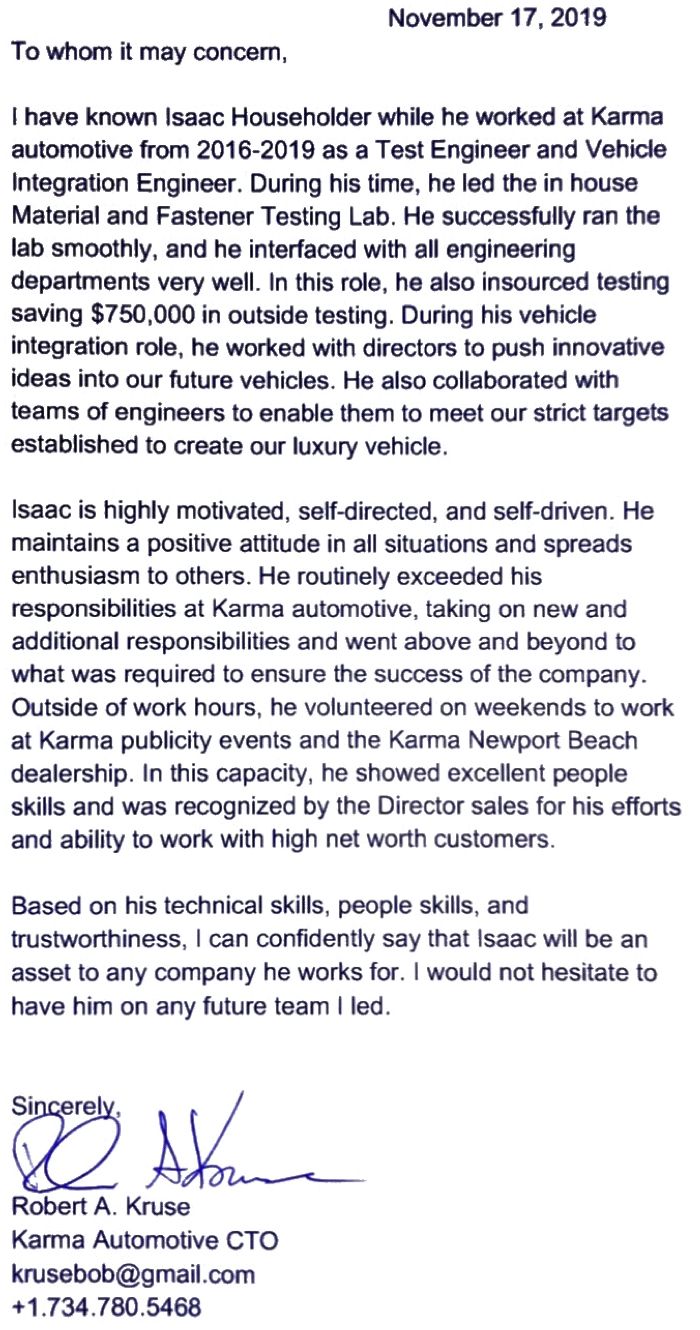
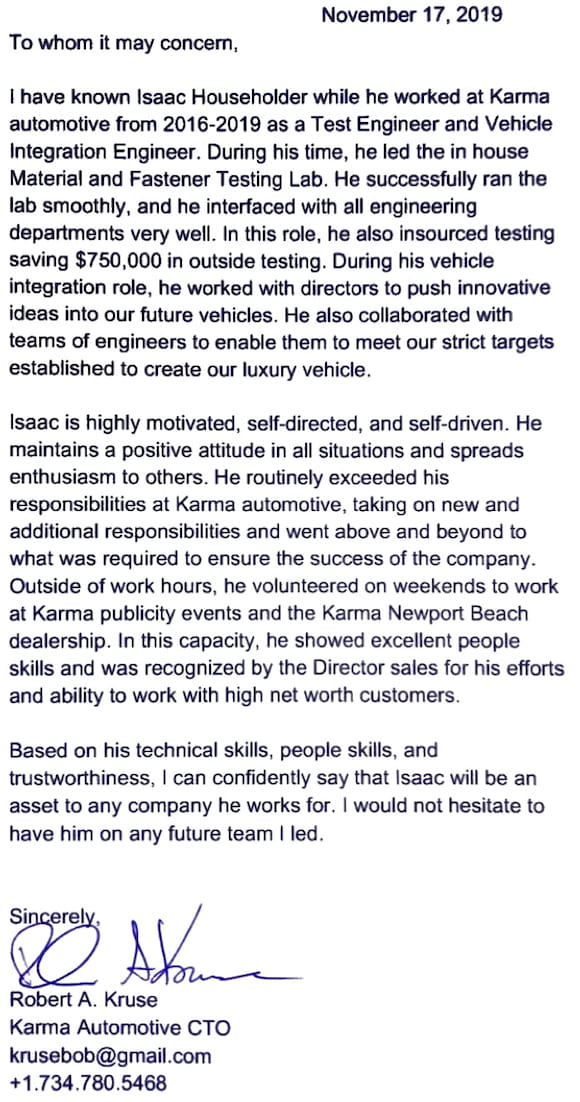
optimized images

diff --git a/src/pages/experience.jsx b/src/pages/experience.jsx
@@ -1,13 +1,22 @@
 import React from "react";
 import styled from "styled-components";
 
-import textBackground from "../assets/swirlBackground2.png";
 import { device } from "../utils/device";
 import colors from "../config/colors";
-import cht from "../assets/companyImages/cht.png";
-import karma from "../assets/companyImages/karma.png";
-import bourns from "../assets/companyImages/bourns.png";
-import dougans from "../assets/companyImages/dougans.png";
+
+import textBackground from "../assets/swirlBackground2.png";
+import chtSmall from "../assets/companyImages/cht_small.png";
+import chtMedium from "../assets/companyImages/cht_medium.png";
+import karmaSmall from "../assets/companyImages/karma_small.png";
+import karmaMedium from "../assets/companyImages/karma_medium.png";
+import bournsSmall from "../assets/companyImages/bourns_small.png";
+import bournsMedium from "../assets/companyImages/bourns_medium.png";
+import dougansSmall from "../assets/companyImages/dougans_small.png";
+import dougansMedium from "../assets/companyImages/dougans_medium.png";
+
+const ImageHeight = "300px";
+const srcSetMediumWidth = "580w";
+const srcSetSmallWidth = "30w";
 
 const Wrapper = styled.section`
   display: flex;
@@ -24,34 +33,23 @@ const JobContainer = styled.section`
   margin-top: 10px;
 `;
 
-const PhotoContainer = styled.section`
+const CompanyImage = styled.img`
   width: 100%;
-  max-height: 304px;
-  border-radius: 20px;
-  -webkit-border-radius: 20px;
-  -moz-border-radius: 20px;
-  -ms-border-radius: 20px;
-  -o-border-radius: 20px;
+`;
+
+const CompanyPhotoTextWrapper = styled.section`
+  max-height: ${ImageHeight};
+  width: 100%;
   overflow: hidden;
   position: relative;
   margin-top: 50px;
 `;
-
-const ChtImage = styled.img`
-  width: 100%;
-`;
-
-const KarmaImage = styled.img`
-  /* width: 900px; */
-  width: 100%;
-`;
-
-const BournsImage = styled.img`
-  width: 100%;
-`;
-
-const DougansImage = styled.img`
-  width: 100%;
+const CompanyImageContainer = styled.section`
+  max-height: ${ImageHeight};
+  overflow: hidden;
+  @media ${device.tablet} {
+    border-radius: 20px;
+  }
 `;
 
 const Section = styled.h1`
@@ -120,10 +118,18 @@ export default function Experience() {
     <Wrapper>
       <Section>Experience</Section>
       <JobContainer>
-        <PhotoContainer>
+        <CompanyPhotoTextWrapper>
           <CompanyName>California Home Team</CompanyName>
-          <ChtImage src={cht} alt="California Home Team" />
-        </PhotoContainer>
+          <CompanyImageContainer>
+            <CompanyImage
+              srcSet={`${chtSmall + " " + srcSetSmallWidth}, ${
+                chtMedium + " " + srcSetMediumWidth
+              }`}
+              src={chtMedium}
+              alt="California Home Team"
+            />
+          </CompanyImageContainer>
+        </CompanyPhotoTextWrapper>
         <CompanyDescription>
           California Home Team is a small real estate company that has been very
           successful in the real estate business for over 30 years. They
@@ -150,10 +156,18 @@ export default function Experience() {
 
       {/* Karma */}
       <JobContainer>
-        <PhotoContainer>
+        <CompanyPhotoTextWrapper>
           <CompanyName>Karma Automotive</CompanyName>
-          <KarmaImage src={karma} alt="Karma Automotive" />
-        </PhotoContainer>
+          <CompanyImageContainer>
+            <CompanyImage
+              srcSet={`${karmaSmall + " " + srcSetSmallWidth}, ${
+                karmaMedium + " " + srcSetMediumWidth
+              }`}
+              src={karmaMedium}
+              alt="Karma Automotive"
+            />
+          </CompanyImageContainer>
+        </CompanyPhotoTextWrapper>
         <CompanyDescription>
           Karma is a design and manufacturer of high-class luxury hybrid cars
           designed to continually challenge the market for the sustainable
@@ -208,10 +222,18 @@ export default function Experience() {
 
       {/* Bourns */}
       <JobContainer>
-        <PhotoContainer>
+        <CompanyPhotoTextWrapper>
           <CompanyName>Bourns Electronics</CompanyName>
-          <BournsImage src={bourns} alt="bourns" />
-        </PhotoContainer>
+          <CompanyImageContainer>
+            <CompanyImage
+              srcSet={`${bournsSmall + " " + srcSetSmallWidth}, ${
+                bournsMedium + " " + srcSetMediumWidth
+              }`}
+              src={bournsMedium}
+              alt="bourns"
+            />
+          </CompanyImageContainer>
+        </CompanyPhotoTextWrapper>
 
         <CompanyDescription>
           Bourns is an electronics company that develops, manufactures, and
@@ -242,10 +264,18 @@ export default function Experience() {
 
       {/* Dougans */}
       <JobContainer>
-        <PhotoContainer>
+        <CompanyPhotoTextWrapper>
           <CompanyName>Dougans Racing</CompanyName>
-          <DougansImage src={dougans} alt="dougans" />
-        </PhotoContainer>
+          <CompanyImageContainer>
+            <CompanyImage
+              srcSet={`${dougansSmall + " " + srcSetSmallWidth}, ${
+                dougansMedium + " " + srcSetMediumWidth
+              }`}
+              src={dougansMedium}
+              alt="dougans"
+            />
+          </CompanyImageContainer>
+        </CompanyPhotoTextWrapper>
         <CompanyDescription>
           Dougan’s is a racing engine building business and machine shop. They
           primarily operate with trophy trucks that race in the Baja 1000

diff --git a/src/pages/recommendations.jsx b/src/pages/recommendations.jsx
@@ -19,6 +19,8 @@ const LetterContainer = styled.section`
   margin: 0px 41px;
 `;
 
+
+
 const LetterBody = styled.section`
   font-family: -apple-system, BlinkMacSystemFont, "Segoe UI", Roboto, Oxygen,
     Ubuntu, Cantarell, "Open Sans", "Helvetica Neue", sans-serif;
@@ -96,7 +98,9 @@ export default function Recommendations() {
 
   const renderBobsLetter = () => {
     if (displayLetter) {
-      return <BobsLetter />;
+      return (
+          <BobsLetter />
+      );
     }
 
     if (!displayLetter) {

diff --git a/src/components/bobsLetter.jsx b/src/components/bobsLetter.jsx
@@ -1,11 +1,12 @@
 import React from "react";
+import styled from "styled-components";
+
 import letter from "../assets/bobsLetter.jpg";
+
+const LetterImage = styled.img`
+  width: 100%;
+`;
+
 export default function BobsLetter() {
-  return (
-    <img
-      className="bobsLetter"
-      src={letter}
-      alt="Robert A. Kruse Letter of Recommendation"
-    />
-  );
+  return <LetterImage src={letter} alt="Letter" />;
 }
